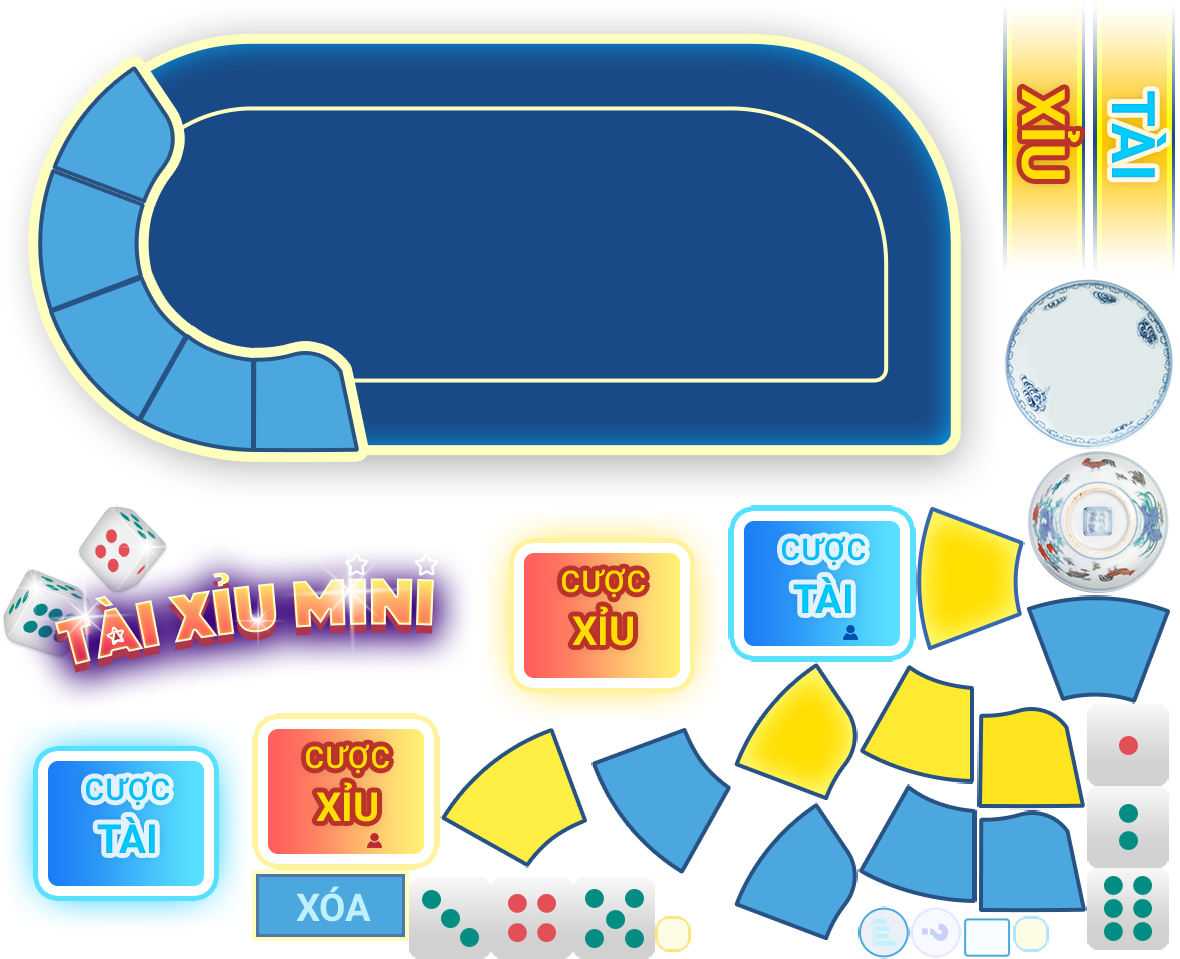
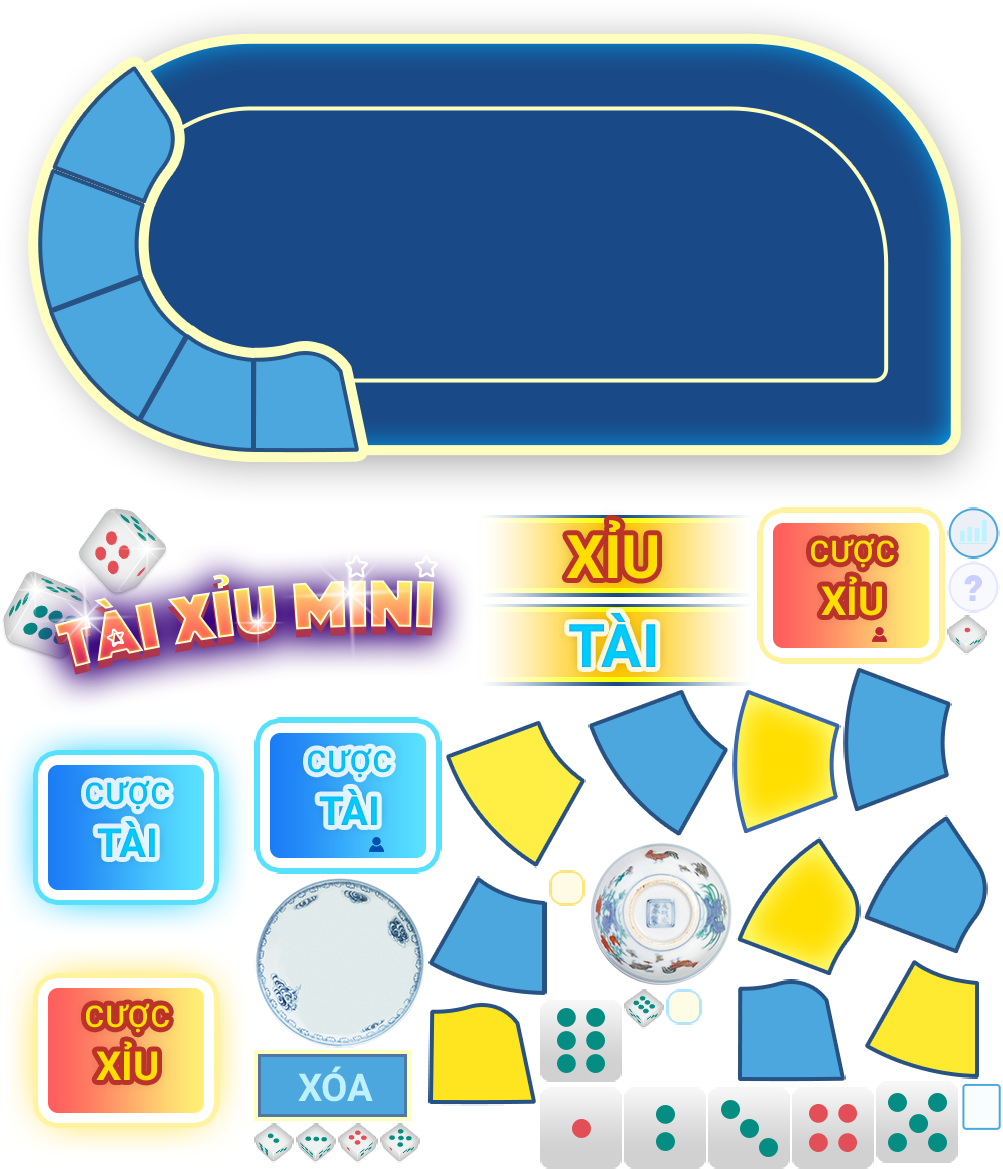
fix

diff --git a/res/Game/js/MiniGame/MiniGameLayer/ChanLeLayer.js b/res/Game/js/MiniGame/MiniGameLayer/ChanLeLayer.js
@@ -10,6 +10,18 @@ var s_miniGame_chip_position = s_miniGame_chip_position || [
         {x: 302, y:101}
 
     ];
+
+var s_mntx_result_position = s_mntx_result_position || [
+        {x: 60, y: 61},
+        {x: 97, y: 48},
+        {x: 41, y: 97},
+        {x: 86, y: 86},
+        {x: 62, y: 113},
+        {x: 96, y: 125},
+        {x: 125, y: 106},
+        {x: 122, y: 67}
+];
+
 var s_money_betEx = s_money_betEx || [1000, 10000, 100000, 1000000, 10000000];
 var ChanLeLayer = MiniGamePopup.extend({
     ctor: function () {
@@ -258,11 +270,11 @@ var ChanLeLayer = MiniGamePopup.extend({
 
     _addResultSprite: function (result) {
         /* add result */
-        var arr = _get_random_array(3, s_xocdia_result_position.length);
+        var arr = _get_random_array(3, s_mntx_result_position.length);
         for (var i = 0; i < arr.length; i++) {
-            var sprite = new cc.Sprite("#taixiu_dice_" + result[i] + ".png");
-            sprite.setScale(1.3);
-            sprite.setPosition(s_xocdia_result_position[arr[i]]);
+            var sprite = new cc.Sprite("#minitaixiu_dice_" + result[i] + ".png");
+            //sprite.setScale(0.4);
+            sprite.setPosition(s_mntx_result_position[arr[i]]);
             this.diskNode.addChild(sprite);
         }
     },
@@ -324,7 +336,7 @@ var ChanLeLayer = MiniGamePopup.extend({
             this.diskSprite.stopAllActions();
             this.batSprite.stopAllActions();
             /* mở bát */
-            this.diskSprite.runAction(new cc.EaseSineOut(new cc.ScaleTo(0.7, 1.2)));
+            this.diskSprite.runAction(new cc.EaseSineOut(new cc.ScaleTo(0.7, 1.5)));
             this.batSpritePosition = this.batSprite.getPosition();
             this.batSprite.runAction(new cc.Sequence(
                 new cc.DelayTime(0.9),
@@ -339,7 +351,7 @@ var ChanLeLayer = MiniGamePopup.extend({
         else{
             this.diskSprite.stopAllActions();
             this.batSprite.stopAllActions();
-            this.diskSprite.setScale(1.2);
+            this.diskSprite.setScale(1.5);
             this.batSprite.setPosition(cc.p(0.0, 450.0));
         }
 
